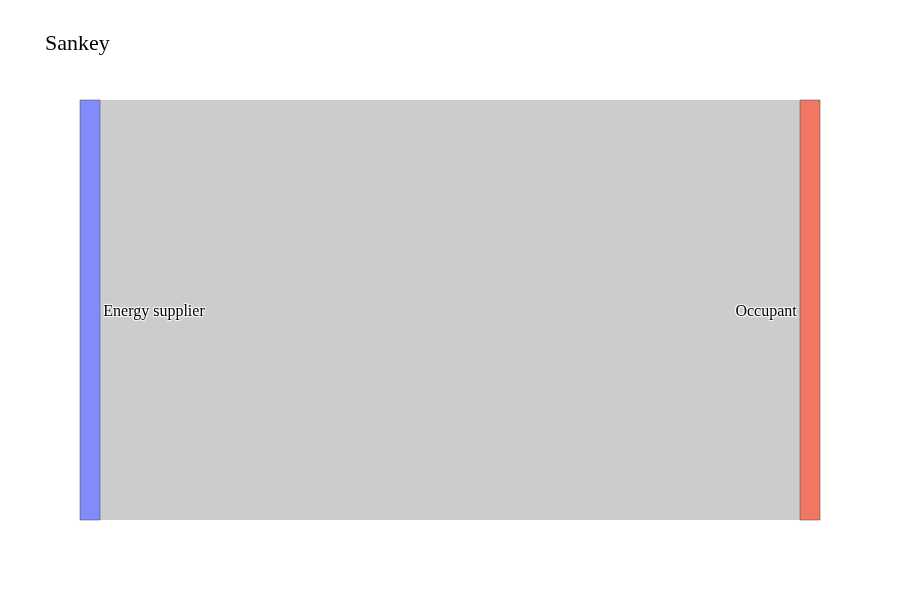
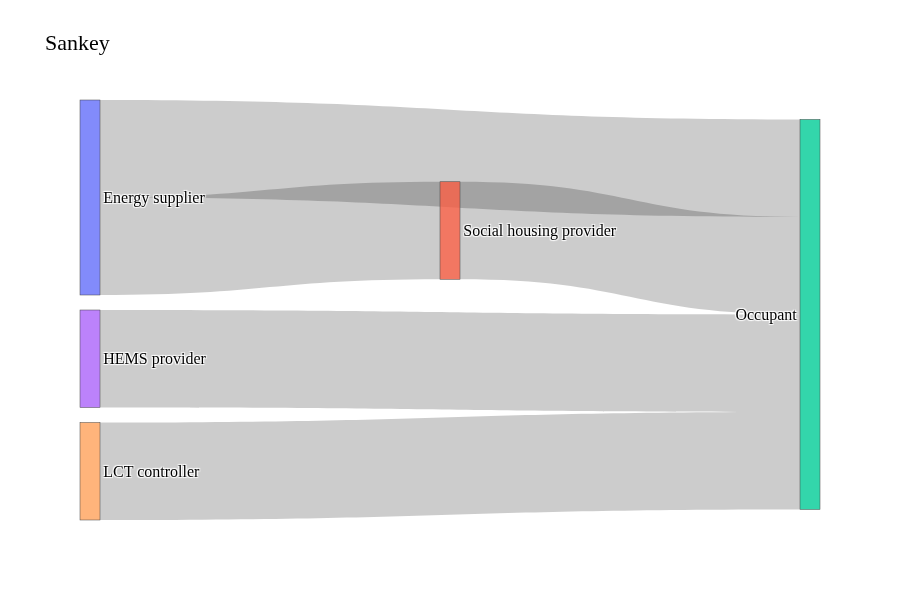
sankey: refresh consumer-interests-mapping

Changed region(s): [[0.0622, 0.15, 0.9333, 0.87]]

diff --git a/site/consumer-interests-mapping/index.html b/site/consumer-interests-mapping/index.html
@@ -2,6 +2,6 @@
 <head><meta charset="utf-8" /></head>
 <body>
     <div style="height:600px; width:900px;">                        <script>window.PlotlyConfig = {MathJaxConfig: 'local'};</script>
-        <script charset="utf-8" src="https://cdn.plot.ly/plotly-3.7.0.min.js" integrity="sha256-jvTGqxNp8AGWEcvNLVuKr+8j5dGe9Yw51LQkmDH+IYA=" crossorigin="anonymous"></script>                <div id="87288b67-7b6a-4b69-b839-58ede995c52e" class="plotly-graph-div" style="height:100%; width:100%;"></div>            <script>                window.PLOTLYENV=window.PLOTLYENV || {};                                if (document.getElementById("87288b67-7b6a-4b69-b839-58ede995c52e")) {                    Plotly.newPlot(                        "87288b67-7b6a-4b69-b839-58ede995c52e",                        [{"link":{"source":{"dtype":"i1","bdata":"AA=="},"target":{"dtype":"i1","bdata":"AQ=="},"value":[1]},"node":{"label":["Energy supplier","Occupant"],"pad":15,"thickness":20},"type":"sankey"}],                        {"template":{"data":{"histogram2dcontour":[{"type":"histogram2dcontour","colorbar":{"outlinewidth":0,"ticks":""},"colorscale":[[0.0,"#0d0887"],[0.1111111111111111,"#46039f"],[0.2222222222222222,"#7201a8"],[0.3333333333333333,"#9c179e"],[0.4444444444444444,"#bd3786"],[0.5555555555555556,"#d8576b"],[0.6666666666666666,"#ed7953"],[0.7777777777777778,"#fb9f3a"],[0.8888888888888888,"#fdca26"],[1.0,"#f0f921"]]}],"choropleth":[{"type":"choropleth","colorbar":{"outlinewidth":0,"ticks":""}}],"histogram2d":[{"type":"histogram2d","colorbar":{"outlinewidth":0,"ticks":""},"colorscale":[[0.0,"#0d0887"],[0.1111111111111111,"#46039f"],[0.2222222222222222,"#7201a8"],[0.3333333333333333,"#9c179e"],[0.4444444444444444,"#bd3786"],[0.5555555555555556,"#d8576b"],[0.6666666666666666,"#ed7953"],[0.7777777777777778,"#fb9f3a"],[0.8888888888888888,"#fdca26"],[1.0,"#f0f921"]]}],"heatmap":[{"type":"heatmap","colorbar":{"outlinewidth":0,"ticks":""},"colorscale":[[0.0,"#0d0887"],[0.1111111111111111,"#46039f"],[0.2222222222222222,"#7201a8"],[0.3333333333333333,"#9c179e"],[0.4444444444444444,"#bd3786"],[0.5555555555555556,"#d8576b"],[0.6666666666666666,"#ed7953"],[0.7777777777777778,"#fb9f3a"],[0.8888888888888888,"#fdca26"],[1.0,"#f0f921"]]}],"contourcarpet":[{"type":"contourcarpet","colorbar":{"outlinewidth":0,"ticks":""}}],"contour":[{"type":"contour","colorbar":{"outlinewidth":0,"ticks":""},"colorscale":[[0.0,"#0d0887"],[0.1111111111111111,"#46039f"],[0.2222222222222222,"#7201a8"],[0.3333333333333333,"#9c179e"],[0.4444444444444444,"#bd3786"],[0.5555555555555556,"#d8576b"],[0.6666666666666666,"#ed7953"],[0.7777777777777778,"#fb9f3a"],[0.8888888888888888,"#fdca26"],[1.0,"#f0f921"]]}],"surface":[{"type":"surface","colorbar":{"outlinewidth":0,"ticks":""},"colorscale":[[0.0,"#0d0887"],[0.1111111111111111,"#46039f"],[0.2222222222222222,"#7201a8"],[0.3333333333333333,"#9c179e"],[0.4444444444444444,"#bd3786"],[0.5555555555555556,"#d8576b"],[0.6666666666666666,"#ed7953"],[0.7777777777777778,"#fb9f3a"],[0.8888888888888888,"#fdca26"],[1.0,"#f0f921"]]}],"mesh3d":[{"type":"mesh3d","colorbar":{"outlinewidth":0,"ticks":""}}],"scatter":[{"fillpattern":{"fillmode":"overlay","size":10,"solidity":0.2},"type":"scatter"}],"parcoords":[{"type":"parcoords","line":{"colorbar":{"outlinewidth":0,"ticks":""}}}],"scatterpolargl":[{"type":"scatterpolargl","marker":{"colorbar":{"outlinewidth":0,"ticks":""}}}],"bar":[{"error_x":{"color":"#2a3f5f"},"error_y":{"color":"#2a3f5f"},"marker":{"line":{"color":"#E5ECF6","width":0.5},"pattern":{"fillmode":"overlay","size":10,"solidity":0.2}},"type":"bar"}],"scattergeo":[{"type":"scattergeo","marker":{"colorbar":{"outlinewidth":0,"ticks":""}}}],"scatterpolar":[{"type":"scatterpolar","marker":{"colorbar":{"outlinewidth":0,"ticks":""}}}],"histogram":[{"marker":{"pattern":{"fillmode":"overlay","size":10,"solidity":0.2}},"type":"histogram"}],"scattergl":[{"type":"scattergl","marker":{"colorbar":{"outlinewidth":0,"ticks":""}}}],"scatter3d":[{"type":"scatter3d","line":{"colorbar":{"outlinewidth":0,"ticks":""}},"marker":{"colorbar":{"outlinewidth":0,"ticks":""}}}],"scattermap":[{"type":"scattermap","marker":{"colorbar":{"outlinewidth":0,"ticks":""}}}],"scattermapbox":[{"type":"scattermapbox","marker":{"colorbar":{"outlinewidth":0,"ticks":""}}}],"scatterternary":[{"type":"scatterternary","marker":{"colorbar":{"outlinewidth":0,"ticks":""}}}],"scattercarpet":[{"type":"scattercarpet","marker":{"colorbar":{"outlinewidth":0,"ticks":""}}}],"carpet":[{"aaxis":{"endlinecolor":"#2a3f5f","gridcolor":"white","linecolor":"white","minorgridcolor":"white","startlinecolor":"#2a3f5f"},"baxis":{"endlinecolor":"#2a3f5f","gridcolor":"white","linecolor":"white","minorgridcolor":"white","startlinecolor":"#2a3f5f"},"type":"carpet"}],"table":[{"cells":{"fill":{"color":"#EBF0F8"},"line":{"color":"white"}},"header":{"fill":{"color":"#C8D4E3"},"line":{"color":"white"}},"type":"table"}],"barpolar":[{"marker":{"line":{"color":"#E5ECF6","width":0.5},"pattern":{"fillmode":"overlay","size":10,"solidity":0.2}},"type":"barpolar"}],"pie":[{"automargin":true,"type":"pie"}]},"layout":{"autotypenumbers":"strict","colorway":["#636efa","#EF553B","#00cc96","#ab63fa","#FFA15A","#19d3f3","#FF6692","#B6E880","#FF97FF","#FECB52"],"font":{"color":"#2a3f5f"},"hovermode":"closest","hoverlabel":{"align":"left"},"paper_bgcolor":"white","plot_bgcolor":"#E5ECF6","polar":{"bgcolor":"#E5ECF6","angularaxis":{"gridcolor":"white","linecolor":"white","ticks":""},"radialaxis":{"gridcolor":"white","linecolor":"white","ticks":""}},"ternary":{"bgcolor":"#E5ECF6","aaxis":{"gridcolor":"white","linecolor":"white","ticks":""},"baxis":{"gridcolor":"white","linecolor":"white","ticks":""},"caxis":{"gridcolor":"white","linecolor":"white","ticks":""}},"coloraxis":{"colorbar":{"outlinewidth":0,"ticks":""}},"colorscale":{"sequential":[[0.0,"#0d0887"],[0.1111111111111111,"#46039f"],[0.2222222222222222,"#7201a8"],[0.3333333333333333,"#9c179e"],[0.4444444444444444,"#bd3786"],[0.5555555555555556,"#d8576b"],[0.6666666666666666,"#ed7953"],[0.7777777777777778,"#fb9f3a"],[0.8888888888888888,"#fdca26"],[1.0,"#f0f921"]],"sequentialminus":[[0.0,"#0d0887"],[0.1111111111111111,"#46039f"],[0.2222222222222222,"#7201a8"],[0.3333333333333333,"#9c179e"],[0.4444444444444444,"#bd3786"],[0.5555555555555556,"#d8576b"],[0.6666666666666666,"#ed7953"],[0.7777777777777778,"#fb9f3a"],[0.8888888888888888,"#fdca26"],[1.0,"#f0f921"]],"diverging":[[0,"#8e0152"],[0.1,"#c51b7d"],[0.2,"#de77ae"],[0.3,"#f1b6da"],[0.4,"#fde0ef"],[0.5,"#f7f7f7"],[0.6,"#e6f5d0"],[0.7,"#b8e186"],[0.8,"#7fbc41"],[0.9,"#4d9221"],[1,"#276419"]]},"xaxis":{"gridcolor":"white","linecolor":"white","ticks":"","title":{"standoff":15},"zerolinecolor":"white","automargin":true,"zerolinewidth":2},"yaxis":{"gridcolor":"white","linecolor":"white","ticks":"","title":{"standoff":15},"zerolinecolor":"white","automargin":true,"zerolinewidth":2},"scene":{"xaxis":{"backgroundcolor":"#E5ECF6","gridcolor":"white","linecolor":"white","showbackground":true,"ticks":"","zerolinecolor":"white","gridwidth":2},"yaxis":{"backgroundcolor":"#E5ECF6","gridcolor":"white","linecolor":"white","showbackground":true,"ticks":"","zerolinecolor":"white","gridwidth":2},"zaxis":{"backgroundcolor":"#E5ECF6","gridcolor":"white","linecolor":"white","showbackground":true,"ticks":"","zerolinecolor":"white","gridwidth":2}},"shapedefaults":{"line":{"color":"#2a3f5f"}},"annotationdefaults":{"arrowcolor":"#2a3f5f","arrowhead":0,"arrowwidth":1},"geo":{"bgcolor":"white","landcolor":"#E5ECF6","subunitcolor":"white","showland":true,"showlakes":true,"lakecolor":"white"},"title":{"x":0.05},"mapbox":{"style":"light"}}},"font":{"size":16,"family":"Arial Black","color":"black"},"title":{"text":"Sankey"},"width":900,"height":600},                        {"responsive": true}                    )                };            </script>        </div>
+        <script charset="utf-8" src="https://cdn.plot.ly/plotly-3.7.0.min.js" integrity="sha256-jvTGqxNp8AGWEcvNLVuKr+8j5dGe9Yw51LQkmDH+IYA=" crossorigin="anonymous"></script>                <div id="8e71fe00-857c-4f18-8c79-0efbf580057c" class="plotly-graph-div" style="height:100%; width:100%;"></div>            <script>                window.PLOTLYENV=window.PLOTLYENV || {};                                if (document.getElementById("8e71fe00-857c-4f18-8c79-0efbf580057c")) {                    Plotly.newPlot(                        "8e71fe00-857c-4f18-8c79-0efbf580057c",                        [{"link":{"source":{"dtype":"i1","bdata":"AAEDBAA="},"target":{"dtype":"i1","bdata":"AQICAgI="},"value":[1,1,1,1,1]},"node":{"label":["Energy supplier","Social housing provider","Occupant","HEMS provider","LCT controller"],"pad":15,"thickness":20},"type":"sankey"}],                        {"template":{"data":{"histogram2dcontour":[{"type":"histogram2dcontour","colorbar":{"outlinewidth":0,"ticks":""},"colorscale":[[0.0,"#0d0887"],[0.1111111111111111,"#46039f"],[0.2222222222222222,"#7201a8"],[0.3333333333333333,"#9c179e"],[0.4444444444444444,"#bd3786"],[0.5555555555555556,"#d8576b"],[0.6666666666666666,"#ed7953"],[0.7777777777777778,"#fb9f3a"],[0.8888888888888888,"#fdca26"],[1.0,"#f0f921"]]}],"choropleth":[{"type":"choropleth","colorbar":{"outlinewidth":0,"ticks":""}}],"histogram2d":[{"type":"histogram2d","colorbar":{"outlinewidth":0,"ticks":""},"colorscale":[[0.0,"#0d0887"],[0.1111111111111111,"#46039f"],[0.2222222222222222,"#7201a8"],[0.3333333333333333,"#9c179e"],[0.4444444444444444,"#bd3786"],[0.5555555555555556,"#d8576b"],[0.6666666666666666,"#ed7953"],[0.7777777777777778,"#fb9f3a"],[0.8888888888888888,"#fdca26"],[1.0,"#f0f921"]]}],"heatmap":[{"type":"heatmap","colorbar":{"outlinewidth":0,"ticks":""},"colorscale":[[0.0,"#0d0887"],[0.1111111111111111,"#46039f"],[0.2222222222222222,"#7201a8"],[0.3333333333333333,"#9c179e"],[0.4444444444444444,"#bd3786"],[0.5555555555555556,"#d8576b"],[0.6666666666666666,"#ed7953"],[0.7777777777777778,"#fb9f3a"],[0.8888888888888888,"#fdca26"],[1.0,"#f0f921"]]}],"contourcarpet":[{"type":"contourcarpet","colorbar":{"outlinewidth":0,"ticks":""}}],"contour":[{"type":"contour","colorbar":{"outlinewidth":0,"ticks":""},"colorscale":[[0.0,"#0d0887"],[0.1111111111111111,"#46039f"],[0.2222222222222222,"#7201a8"],[0.3333333333333333,"#9c179e"],[0.4444444444444444,"#bd3786"],[0.5555555555555556,"#d8576b"],[0.6666666666666666,"#ed7953"],[0.7777777777777778,"#fb9f3a"],[0.8888888888888888,"#fdca26"],[1.0,"#f0f921"]]}],"surface":[{"type":"surface","colorbar":{"outlinewidth":0,"ticks":""},"colorscale":[[0.0,"#0d0887"],[0.1111111111111111,"#46039f"],[0.2222222222222222,"#7201a8"],[0.3333333333333333,"#9c179e"],[0.4444444444444444,"#bd3786"],[0.5555555555555556,"#d8576b"],[0.6666666666666666,"#ed7953"],[0.7777777777777778,"#fb9f3a"],[0.8888888888888888,"#fdca26"],[1.0,"#f0f921"]]}],"mesh3d":[{"type":"mesh3d","colorbar":{"outlinewidth":0,"ticks":""}}],"scatter":[{"fillpattern":{"fillmode":"overlay","size":10,"solidity":0.2},"type":"scatter"}],"parcoords":[{"type":"parcoords","line":{"colorbar":{"outlinewidth":0,"ticks":""}}}],"scatterpolargl":[{"type":"scatterpolargl","marker":{"colorbar":{"outlinewidth":0,"ticks":""}}}],"bar":[{"error_x":{"color":"#2a3f5f"},"error_y":{"color":"#2a3f5f"},"marker":{"line":{"color":"#E5ECF6","width":0.5},"pattern":{"fillmode":"overlay","size":10,"solidity":0.2}},"type":"bar"}],"scattergeo":[{"type":"scattergeo","marker":{"colorbar":{"outlinewidth":0,"ticks":""}}}],"scatterpolar":[{"type":"scatterpolar","marker":{"colorbar":{"outlinewidth":0,"ticks":""}}}],"histogram":[{"marker":{"pattern":{"fillmode":"overlay","size":10,"solidity":0.2}},"type":"histogram"}],"scattergl":[{"type":"scattergl","marker":{"colorbar":{"outlinewidth":0,"ticks":""}}}],"scatter3d":[{"type":"scatter3d","line":{"colorbar":{"outlinewidth":0,"ticks":""}},"marker":{"colorbar":{"outlinewidth":0,"ticks":""}}}],"scattermap":[{"type":"scattermap","marker":{"colorbar":{"outlinewidth":0,"ticks":""}}}],"scattermapbox":[{"type":"scattermapbox","marker":{"colorbar":{"outlinewidth":0,"ticks":""}}}],"scatterternary":[{"type":"scatterternary","marker":{"colorbar":{"outlinewidth":0,"ticks":""}}}],"scattercarpet":[{"type":"scattercarpet","marker":{"colorbar":{"outlinewidth":0,"ticks":""}}}],"carpet":[{"aaxis":{"endlinecolor":"#2a3f5f","gridcolor":"white","linecolor":"white","minorgridcolor":"white","startlinecolor":"#2a3f5f"},"baxis":{"endlinecolor":"#2a3f5f","gridcolor":"white","linecolor":"white","minorgridcolor":"white","startlinecolor":"#2a3f5f"},"type":"carpet"}],"table":[{"cells":{"fill":{"color":"#EBF0F8"},"line":{"color":"white"}},"header":{"fill":{"color":"#C8D4E3"},"line":{"color":"white"}},"type":"table"}],"barpolar":[{"marker":{"line":{"color":"#E5ECF6","width":0.5},"pattern":{"fillmode":"overlay","size":10,"solidity":0.2}},"type":"barpolar"}],"pie":[{"automargin":true,"type":"pie"}]},"layout":{"autotypenumbers":"strict","colorway":["#636efa","#EF553B","#00cc96","#ab63fa","#FFA15A","#19d3f3","#FF6692","#B6E880","#FF97FF","#FECB52"],"font":{"color":"#2a3f5f"},"hovermode":"closest","hoverlabel":{"align":"left"},"paper_bgcolor":"white","plot_bgcolor":"#E5ECF6","polar":{"bgcolor":"#E5ECF6","angularaxis":{"gridcolor":"white","linecolor":"white","ticks":""},"radialaxis":{"gridcolor":"white","linecolor":"white","ticks":""}},"ternary":{"bgcolor":"#E5ECF6","aaxis":{"gridcolor":"white","linecolor":"white","ticks":""},"baxis":{"gridcolor":"white","linecolor":"white","ticks":""},"caxis":{"gridcolor":"white","linecolor":"white","ticks":""}},"coloraxis":{"colorbar":{"outlinewidth":0,"ticks":""}},"colorscale":{"sequential":[[0.0,"#0d0887"],[0.1111111111111111,"#46039f"],[0.2222222222222222,"#7201a8"],[0.3333333333333333,"#9c179e"],[0.4444444444444444,"#bd3786"],[0.5555555555555556,"#d8576b"],[0.6666666666666666,"#ed7953"],[0.7777777777777778,"#fb9f3a"],[0.8888888888888888,"#fdca26"],[1.0,"#f0f921"]],"sequentialminus":[[0.0,"#0d0887"],[0.1111111111111111,"#46039f"],[0.2222222222222222,"#7201a8"],[0.3333333333333333,"#9c179e"],[0.4444444444444444,"#bd3786"],[0.5555555555555556,"#d8576b"],[0.6666666666666666,"#ed7953"],[0.7777777777777778,"#fb9f3a"],[0.8888888888888888,"#fdca26"],[1.0,"#f0f921"]],"diverging":[[0,"#8e0152"],[0.1,"#c51b7d"],[0.2,"#de77ae"],[0.3,"#f1b6da"],[0.4,"#fde0ef"],[0.5,"#f7f7f7"],[0.6,"#e6f5d0"],[0.7,"#b8e186"],[0.8,"#7fbc41"],[0.9,"#4d9221"],[1,"#276419"]]},"xaxis":{"gridcolor":"white","linecolor":"white","ticks":"","title":{"standoff":15},"zerolinecolor":"white","automargin":true,"zerolinewidth":2},"yaxis":{"gridcolor":"white","linecolor":"white","ticks":"","title":{"standoff":15},"zerolinecolor":"white","automargin":true,"zerolinewidth":2},"scene":{"xaxis":{"backgroundcolor":"#E5ECF6","gridcolor":"white","linecolor":"white","showbackground":true,"ticks":"","zerolinecolor":"white","gridwidth":2},"yaxis":{"backgroundcolor":"#E5ECF6","gridcolor":"white","linecolor":"white","showbackground":true,"ticks":"","zerolinecolor":"white","gridwidth":2},"zaxis":{"backgroundcolor":"#E5ECF6","gridcolor":"white","linecolor":"white","showbackground":true,"ticks":"","zerolinecolor":"white","gridwidth":2}},"shapedefaults":{"line":{"color":"#2a3f5f"}},"annotationdefaults":{"arrowcolor":"#2a3f5f","arrowhead":0,"arrowwidth":1},"geo":{"bgcolor":"white","landcolor":"#E5ECF6","subunitcolor":"white","showland":true,"showlakes":true,"lakecolor":"white"},"title":{"x":0.05},"mapbox":{"style":"light"}}},"font":{"size":16,"family":"Arial Black","color":"black"},"title":{"text":"Sankey"},"width":900,"height":600},                        {"responsive": true}                    )                };            </script>        </div>
 </body>
 </html>
